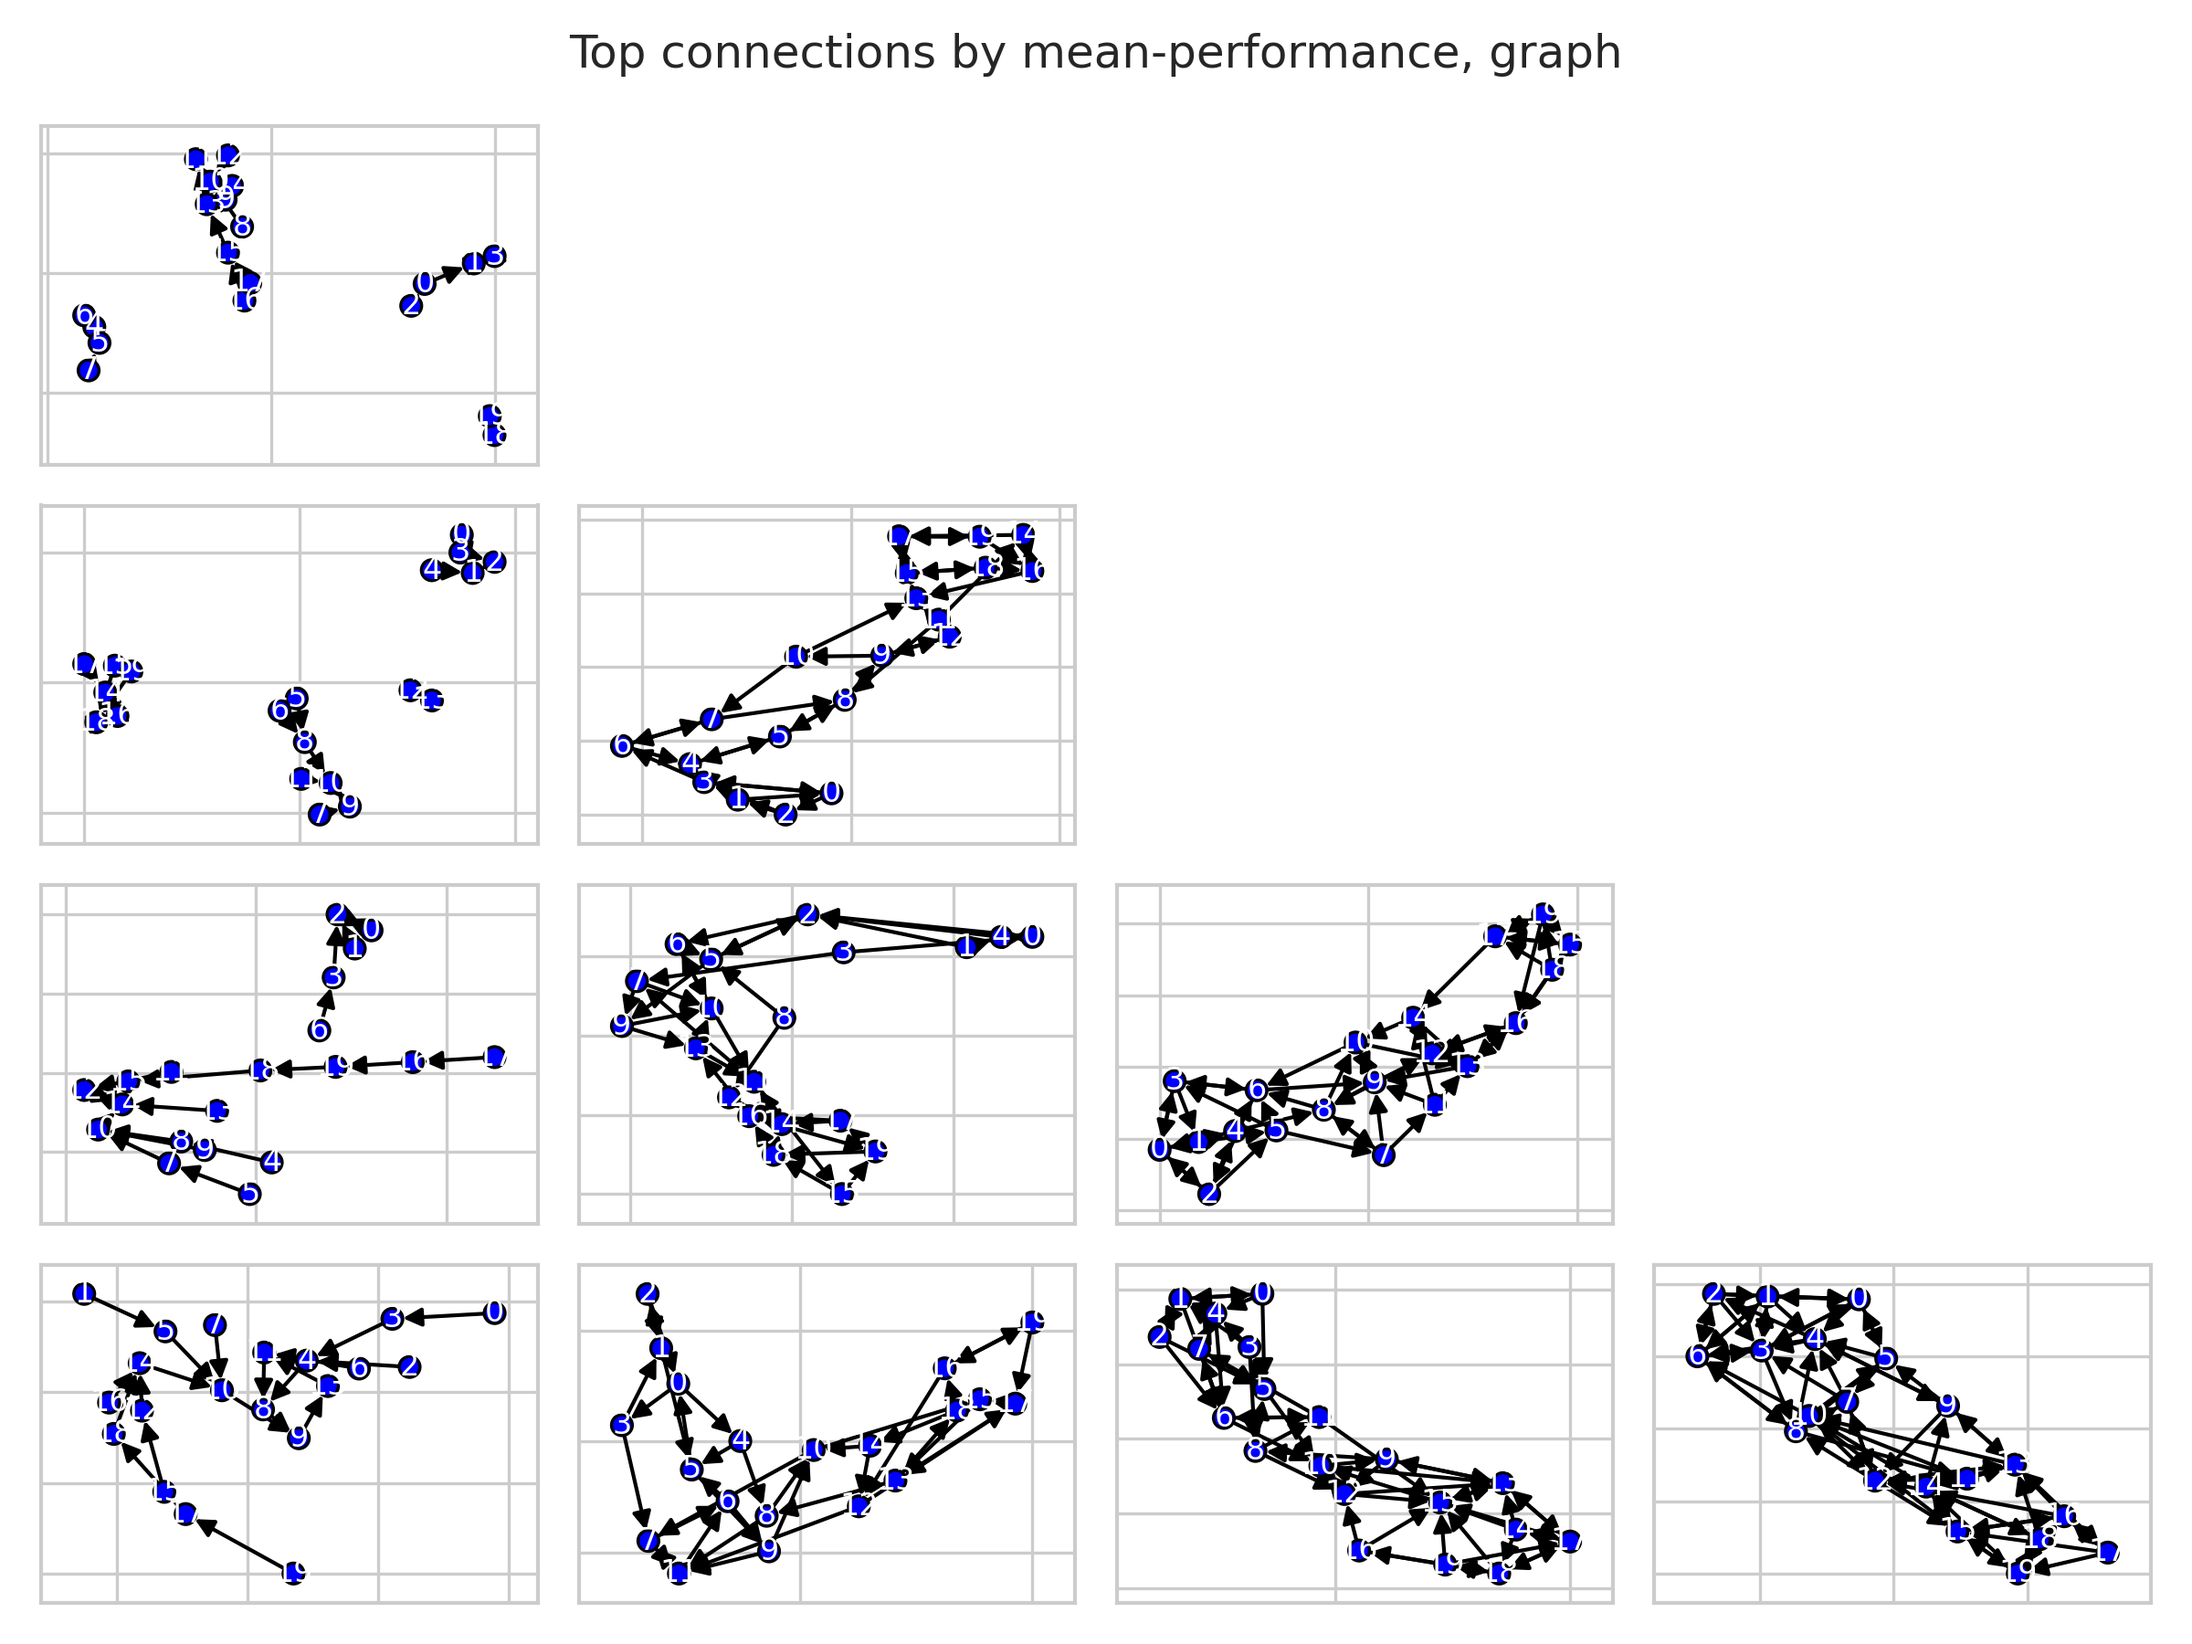
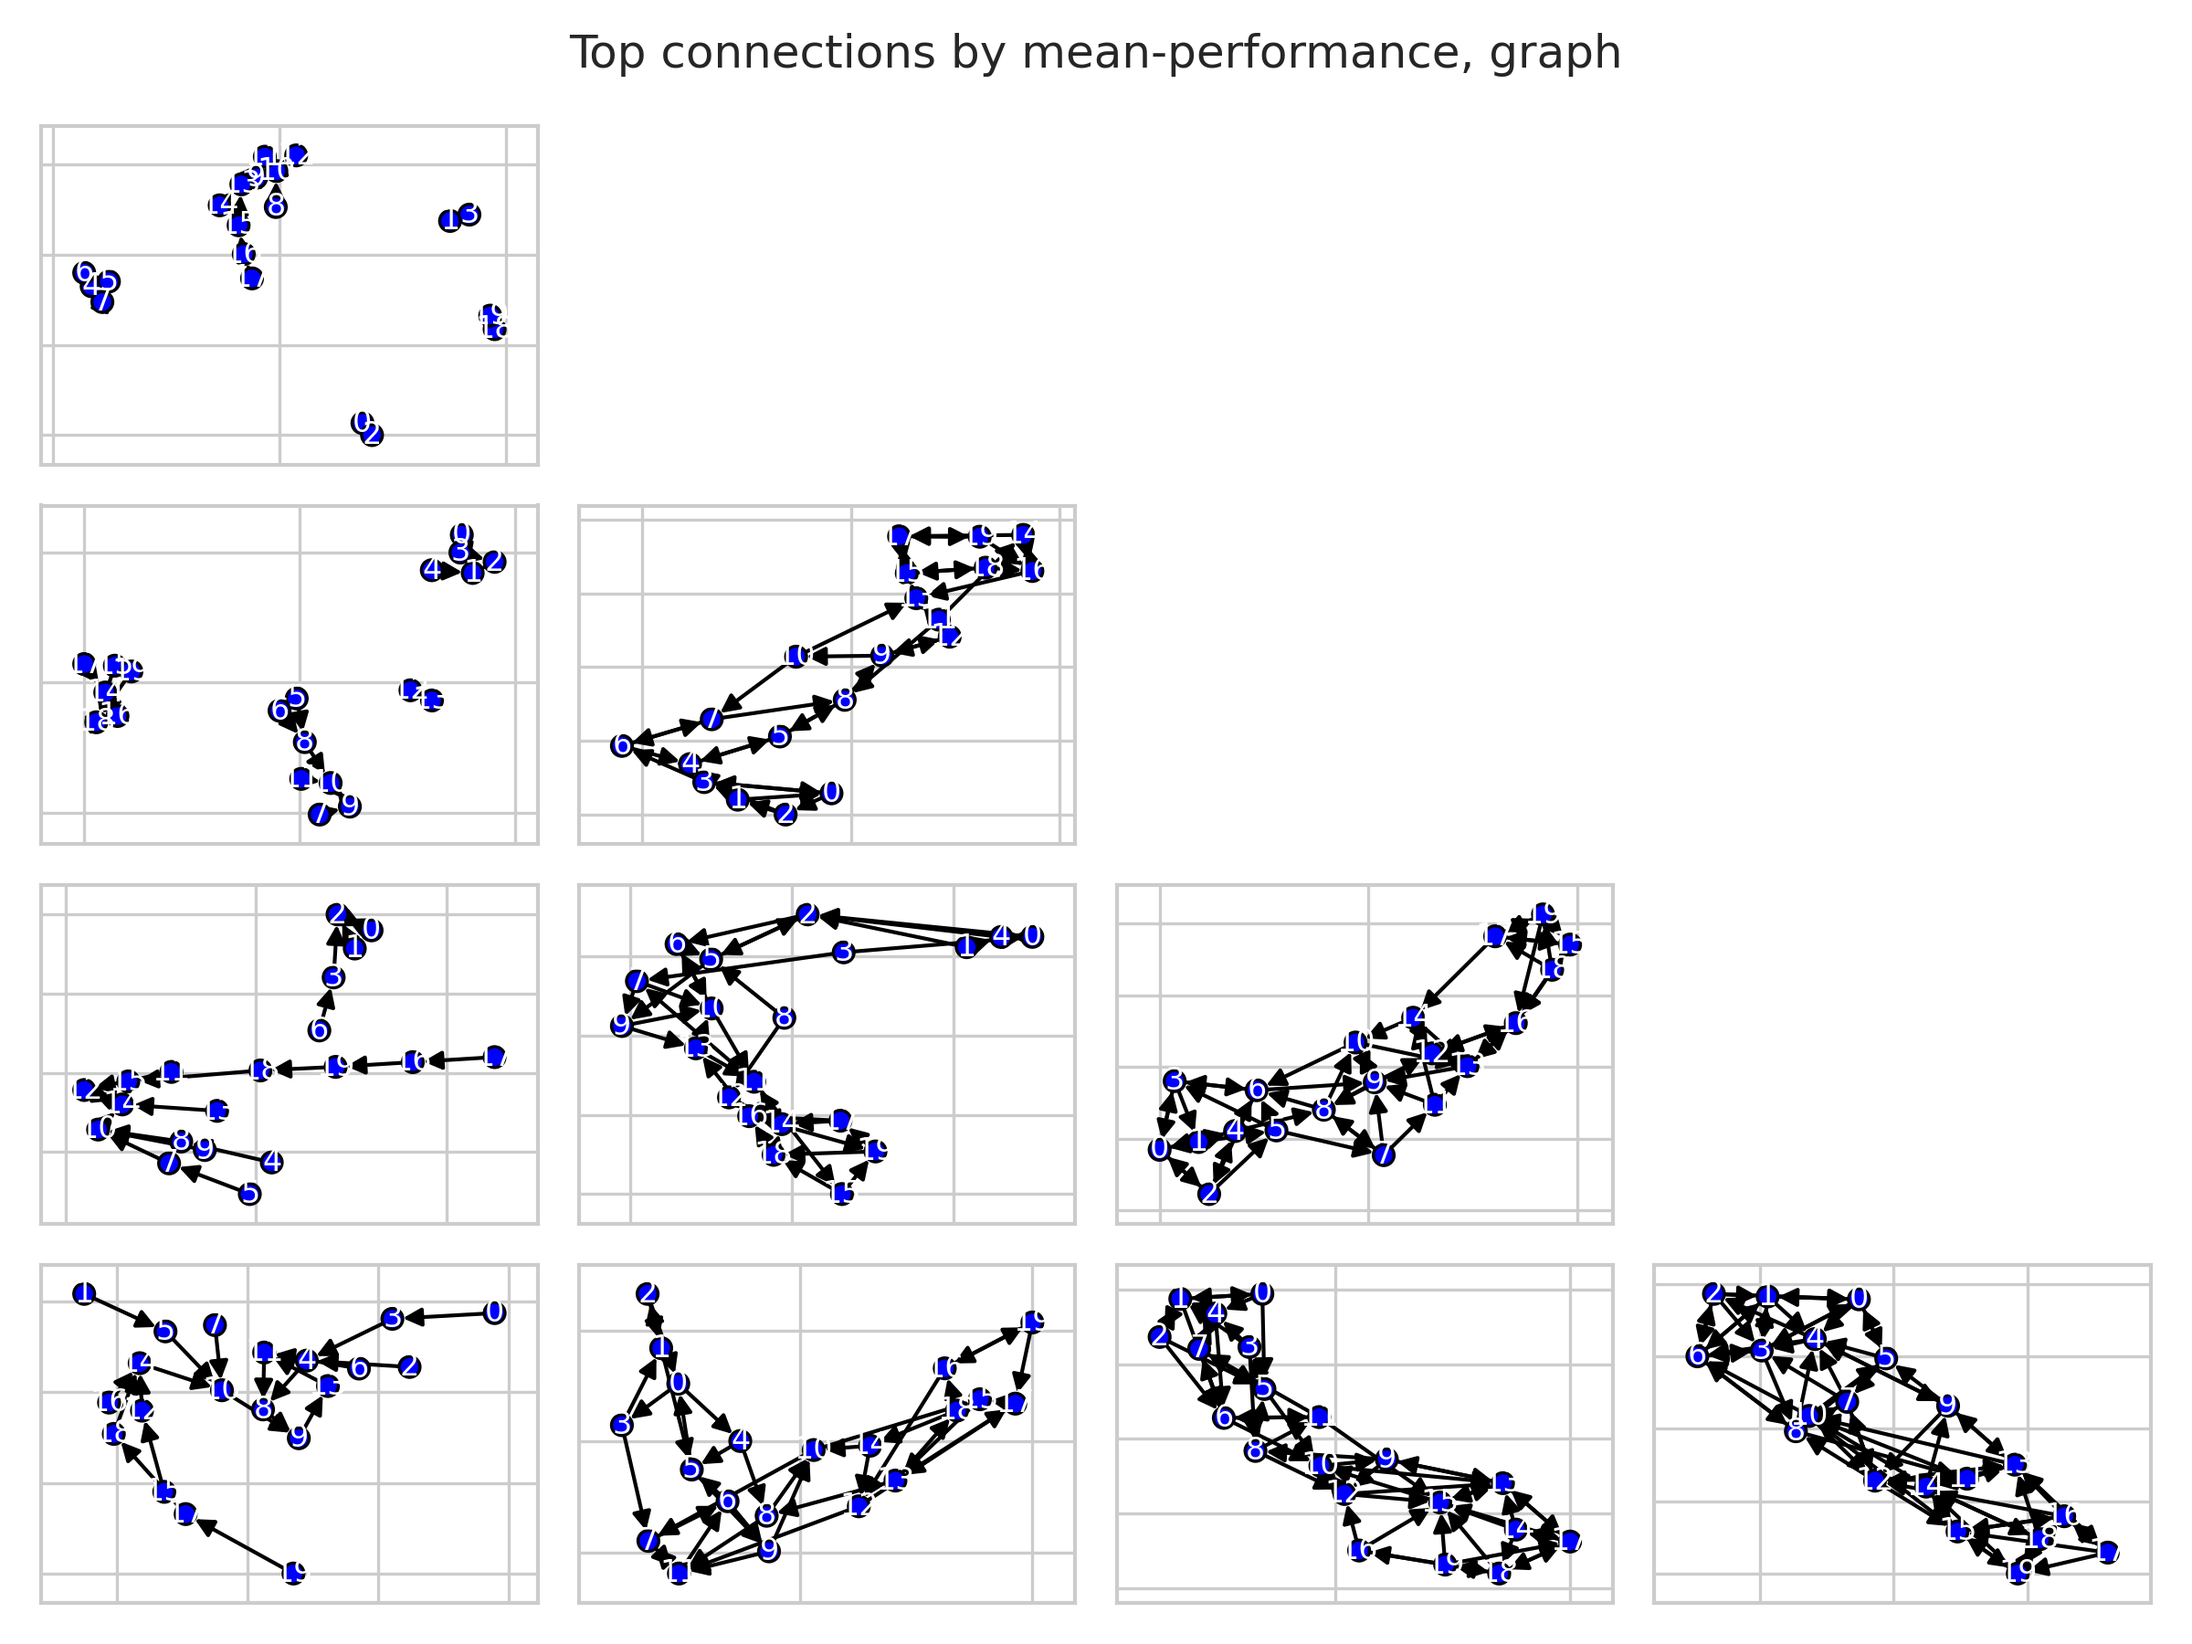
docs(14, topological an): + shift wrt diagonal r4,d4

diff --git a/experiments/14-LSM-rope-analysis/reports/topological-analysis.md b/experiments/14-LSM-rope-analysis/reports/topological-analysis.md
@@ -1,5 +1,20 @@
 # Topological Analysis
 
+## Contents
+- [Contents](#contents)
+  - [The Signal](#the-signal)
+- [The Network](#the-network)
+  - [The Reservoir](#the-reservoir)
+  - [The Readout](#the-readout)
+- [The Training](#the-training)
+  - [The Loss Computation](#the-loss-computation)
+- [Experiment](#experiment)
+- [Visualization](#visualization)
+  - [Top n connections by performance](#top-n-connections-by-performance)
+    - [Graph of the Top n connections by performance](#graph-of-the-top-n-connections-by-performance)
+  - [Mean performance by shift wrt diagonal](#mean-performance-by-shift-wrt-diagonal)
+- [Back to LSM Topological Analysis](#back-to-lsm-topological-analysis)
+
 ### The Signal
 The signal on which the network was trained consists of a constant baseline and alternating fragments whose frequency can be one of two possible
 
@@ -73,14 +88,26 @@ Below we see a representation of the average performance obtained by connection 
 <img src='./topological_analysis/avg_acc_per_pos-ressize_20-d_4-r_4-25pc.png' width=50%>
 <img src='./topological_analysis/avg_acc_per_pos-ressize_20-d_3-r_3-25pc.png' width=50%> -->
 
+### Top n connections by performance
 
-Here below we see the top neurons by mean performance
+Here below we see the top connections by mean performance
 
 <img src='./topological_analysis/top_perf_x_pos-mean.png'>
+
+#### Graph of the Top n connections by performance
 
 Below we see a graph rapresentation of the top neuron positions
 
 <img src='./topological_analysis/top_perf_graph.png'>
+
+### Mean performance by shift wrt diagonal
+
+<img src='./topological_analysis/shift-perf_x_pos-mean.png'>
+
+<img src='./topological_analysis/shift-top_perf_graph.png'>
+
+<img src='./topological_analysis/shift-top_perf_x_pos-mean.png'>
+
 
 ## Back to LSM Topological Analysis
 
